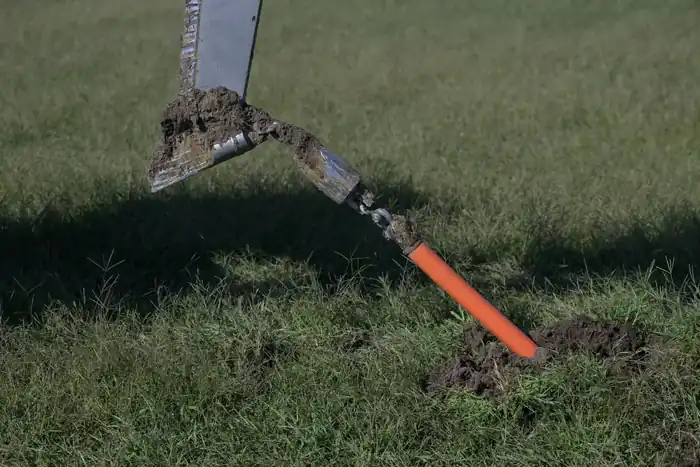
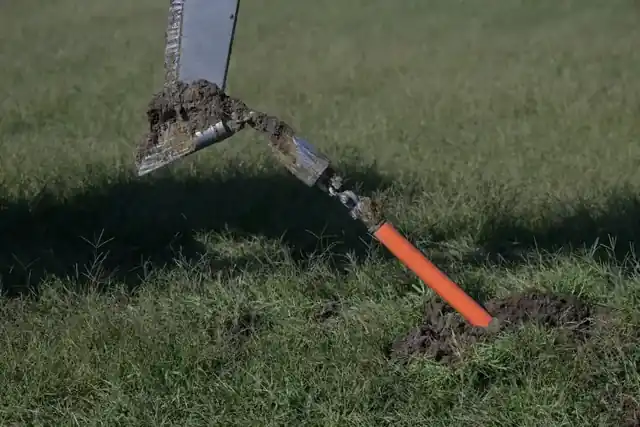
Stop phones from downloading the desktop photo.
A high-resolution phone was still choosing the larger image. Mobile now gets only the small photo, a smaller logo, and Latin fonts.

Changed region(s): [[0.6562, 0.6698, 0.6875, 0.7002], [0.625, 0.6089, 0.6562, 0.6393]]

diff --git a/src/styles/global.css b/src/styles/global.css
@@ -1,7 +1,7 @@
 @import "tailwindcss";
 @import "tw-animate-css";
-@import "@fontsource-variable/sora";
-@import "@fontsource-variable/manrope";
+@font-face{font-family:"Sora Variable";font-style:normal;font-display:swap;font-weight:100 800;src:url("../../node_modules/@fontsource-variable/sora/files/sora-latin-wght-normal.woff2") format("woff2");unicode-range:U+0000-00FF,U+0131,U+0152-0153,U+02BB-02BC,U+02C6,U+02DA,U+02DC,U+0304,U+0308,U+0329,U+2000-206F,U+20AC,U+2122,U+2191,U+2193,U+2212,U+2215,U+FEFF,U+FFFD}
+@font-face{font-family:"Manrope Variable";font-style:normal;font-display:swap;font-weight:200 800;src:url("../../node_modules/@fontsource-variable/manrope/files/manrope-latin-wght-normal.woff2") format("woff2");unicode-range:U+0000-00FF,U+0131,U+0152-0153,U+02BB-02BC,U+02C6,U+02DA,U+02DC,U+0304,U+0308,U+0329,U+2000-206F,U+20AC,U+2122,U+2191,U+2193,U+2212,U+2215,U+FEFF,U+FFFD}
 @theme inline {
   --font-sans:"Manrope Variable",sans-serif; --font-heading:"Sora Variable",sans-serif;
   --color-background:#fff; --color-foreground:#10283e; --color-primary:#005eae; --color-primary-foreground:#fff;
@@ -12,7 +12,7 @@
 :root{--ink:#10283e;--blue:#005eae;--muted:#506477;--line:#d5dfe6;--pale:#eff4f7;--header:88px}
 *{box-sizing:border-box}html{scroll-behavior:smooth;scroll-padding-top:110px}body{margin:0;background:#fff;color:var(--ink);font-family:"Manrope Variable",sans-serif;-webkit-font-smoothing:antialiased}h1,h2,h3,p,figure{margin:0}h1,h2,h3{font-family:"Sora Variable",sans-serif;font-weight:500;letter-spacing:-.045em}h2{font-size:clamp(32px,3.6vw,52px);line-height:1.16}p{line-height:1.75}a{color:inherit;text-decoration:none}img{max-width:100%;display:block}button,input,textarea,select{font:inherit}button,summary{cursor:pointer}button,a{-webkit-tap-highlight-color:transparent}a:focus-visible,button:focus-visible,summary:focus-visible{outline:3px solid #008cff;outline-offset:5px}::selection{background:#b7dbff}.wrap{width:min(1280px,calc(100% - 96px));margin-inline:auto}.section{padding-block:96px}.eyebrow{font-size:11px;font-weight:750;letter-spacing:.15em;color:var(--blue);margin-bottom:24px}.small-note{font-size:12px;color:var(--muted);line-height:1.7}.action{display:inline-flex;align-items:center;justify-content:center;gap:26px;padding:16px 22px;min-height:50px;background:var(--blue);color:#fff;font-size:13px;font-weight:700;border-radius:2px;border:1px solid transparent;transition:background .2s}.action:hover{background:#004c8d}.action svg,.text-link svg{width:18px;height:18px;transition:transform .2s}.action:hover svg,.text-link:hover svg{transform:translateX(4px)}.action-white{background:#fff;color:var(--ink);border-radius:999px}.action-white:hover{background:#dfefff}.text-link{display:inline-flex;align-items:center;gap:24px;font-size:13px;font-weight:750;color:var(--blue);border-bottom:1px solid var(--blue);padding-block:14px;margin-top:20px;min-height:44px}.skip{position:fixed;top:8px;left:12px;z-index:100;background:#fff;padding:12px;transform:translateY(-150%)}.skip:focus{transform:none}
 .scroll-progress{position:fixed;top:0;left:0;right:0;height:3px;z-index:70;pointer-events:none}.scroll-progress span{display:block;height:100%;width:0;background:#008cff}.header{position:fixed;top:14px;left:0;right:0;z-index:50;background:transparent;border:0}.nav-float{width:min(1180px,calc(100% - 28px));margin-inline:auto;height:68px;display:flex;align-items:center;justify-content:space-between;gap:18px;padding:0 14px 0 18px;background:rgba(255,255,255,.78);border:1px solid rgba(255,255,255,.72);border-radius:999px;box-shadow:0 12px 40px rgba(7,25,52,.14);backdrop-filter:blur(18px) saturate(1.35)}.header.is-scrolled .nav-float{background:rgba(255,255,255,.92)}.brand{display:flex;align-items:center}.brand img{width:132px;height:auto}.desktop-nav{display:flex;align-items:center;gap:22px;font-size:13px;font-weight:650}.desktop-nav>a:not(.action){position:relative;padding-block:8px;color:#24384c}.desktop-nav>a:not(.action):hover,.desktop-nav>a[aria-current]{color:var(--blue)}.desktop-nav>a[aria-current]:after{content:"";position:absolute;left:0;right:0;bottom:2px;height:2px;background:var(--blue)}.desktop-nav .action{min-height:42px;border-radius:999px;padding-inline:18px}.mobile-menu{display:none;position:relative}.mobile-nav-trigger{min-height:44px;padding:10px 14px;background:white;border:1px solid var(--line);color:var(--ink);border-radius:999px;list-style:none}.mobile-menu summary::-webkit-details-marker{display:none}.mobile-menu nav{position:absolute;top:78px;right:14px;z-index:60;display:grid;min-width:220px;padding:8px;background:white;border:1px solid var(--line);border-radius:16px;box-shadow:0 16px 40px rgba(7,25,52,.16)}.mobile-menu nav a{padding:12px 14px;font-size:15px;font-weight:650}
-.field-hero{position:relative;isolation:isolate;min-height:640px;height:100svh;max-height:920px;color:white;display:flex;align-items:center;overflow:hidden;background:#17364d}.hero-photo,.hero-overlay{position:absolute;inset:0;width:100%;height:100%;z-index:-1}.hero-photo{object-fit:cover;object-position:center 53%;animation:photo-in 1.3s ease-out both}.hero-overlay{background:linear-gradient(90deg,rgba(5,22,36,.83),rgba(5,22,36,.46) 55%,rgba(5,22,36,.08)),linear-gradient(0deg,rgba(5,22,36,.45),transparent 30%)}.hero-content{padding-block:70px 100px;animation:copy-in .7s ease-out both}.hero-content .eyebrow{color:#c5e5ff;font-size:10px;letter-spacing:.18em}.hero-content h1{font-size:clamp(52px,6.6vw,96px);line-height:1.06;letter-spacing:-.06em;max-width:960px}.hero-description{font-size:17px;max-width:410px;margin-block:28px 32px;color:#e1ebf3}.hero-bottom{position:absolute;bottom:28px;left:0;right:0;display:flex;justify-content:space-between;gap:24px;align-items:center;font-size:10px;color:#ecf4fa}.hero-bottom>a{padding-block:10px}.hero-bottom>a:last-child{font-size:12px;font-weight:650}.hero-bottom span{margin-left:24px;font-size:22px}
+.field-hero{position:relative;isolation:isolate;min-height:640px;height:100svh;max-height:920px;color:white;display:flex;align-items:center;overflow:hidden;background:#17364d}.hero-photo,.hero-overlay{position:absolute;inset:0;width:100%;height:100%;z-index:-1}.hero-photo img,.hero-photo{object-fit:cover;object-position:center 53%;width:100%;height:100%;animation:photo-in 1.3s ease-out both}.hero-overlay{background:linear-gradient(90deg,rgba(5,22,36,.83),rgba(5,22,36,.46) 55%,rgba(5,22,36,.08)),linear-gradient(0deg,rgba(5,22,36,.45),transparent 30%)}.hero-content{padding-block:70px 100px;animation:copy-in .7s ease-out both}.hero-content .eyebrow{color:#c5e5ff;font-size:10px;letter-spacing:.18em}.hero-content h1{font-size:clamp(52px,6.6vw,96px);line-height:1.06;letter-spacing:-.06em;max-width:960px}.hero-description{font-size:17px;max-width:410px;margin-block:28px 32px;color:#e1ebf3}.hero-bottom{position:absolute;bottom:28px;left:0;right:0;display:flex;justify-content:space-between;gap:24px;align-items:center;font-size:10px;color:#ecf4fa}.hero-bottom>a{padding-block:10px}.hero-bottom>a:last-child{font-size:12px;font-weight:650}.hero-bottom span{margin-left:24px;font-size:22px}
 .introduction{display:grid;grid-template-columns:1.1fr 1fr;gap:90px}.introduction h2{color:var(--blue)}.intro-copy p{font-size:16px;color:var(--muted)}.intro-copy p:first-child{font-size:20px;color:var(--ink);line-height:1.6;margin-bottom:20px}
 .people-banner{display:grid;grid-template-columns:1fr 1fr;background:var(--blue);color:white}.people-banner figure{position:relative;overflow:hidden;min-height:620px}.people-banner img{height:100%;width:100%;object-fit:cover;object-position:62% center;transition:transform .8s}.people-banner figure:hover img{transform:scale(1.035)}.people-banner figcaption{position:absolute;bottom:24px;left:24px;font-size:10px;background:#10283ee6;padding:8px 12px}.people-copy{padding:64px clamp(32px,5vw,80px)}.people-copy .eyebrow{color:#b4ddff}.people-copy>p:not(.eyebrow){color:#e0edf7;margin-top:24px;font-size:15px}.principles{display:grid;grid-template-columns:1fr 1fr;gap:30px;margin-top:40px}.principles>div{border-top:1px solid #ffffff55;padding-top:18px}.principles h3{font-size:16px;letter-spacing:-.025em;margin-bottom:9px}.principles p{font-size:12px;line-height:1.7;color:#e0edf7}
 .capabilities{display:grid;grid-template-columns:.9fr 1.1fr;gap:90px;align-items:start}.capability-intro{position:sticky;top:140px}.capability-intro>p:not(.eyebrow){color:var(--muted);max-width:300px;margin-top:26px}.capability{display:grid;grid-template-columns:24px 1fr 18px;gap:18px;padding:30px 0;border-top:1px solid var(--line)}.capability-number{font-size:11px;color:var(--blue);padding-top:6px}.capability h3{font-size:25px;line-height:1.25}.capability p{font-size:14px;color:var(--muted);margin-top:14px}.capability ul{list-style:none;padding:0;margin:18px 0 0;font-size:12px;line-height:1.8;color:var(--muted)}.capability li:before{content:'—';margin-right:10px;color:var(--blue)}.capability>svg{width:18px;height:18px;color:var(--blue);margin-top:5px}.capability-list>.small-note{padding-top:20px;border-top:1px solid var(--line)}
@@ -23,6 +23,6 @@
 .footer{background:#071422;color:white;padding-top:88px}.footer-close{display:grid;gap:28px;padding-bottom:64px}.footer-kicker{font-size:12px;letter-spacing:.16em;font-weight:750;color:#9fd0ff}.footer-display{font-family:"Sora Variable",sans-serif;font-size:clamp(52px,8vw,108px);line-height:.96;letter-spacing:-.06em;max-width:920px}.footer-close .action{width:fit-content}.footer-meta{border-top:1px solid #ffffff22;padding-block:22px 28px;display:flex;justify-content:space-between;gap:24px;align-items:center;font-size:12px;color:#c4d4df}.footer-nav{display:flex;flex-wrap:wrap;gap:8px 22px}.footer-nav a:hover{color:white}.rise{opacity:0;transform:translateY(28px);transition:opacity .7s ease,transform .7s ease}.rise.is-in{opacity:1;transform:none}
 @keyframes copy-in{from{opacity:0;transform:translateY(18px)}to{opacity:1;transform:none}}@keyframes photo-in{from{transform:scale(1.035)}to{transform:scale(1)}}
 @media(max-width:1100px){.brand-descriptor{display:none}.wrap{width:calc(100% - 64px)}.desktop-nav{gap:20px}.introduction,.capabilities,.safety-layout,.contact-layout{gap:45px}.people-copy{padding:48px 32px}.people-copy h2{font-size:35px}.principles{gap:24px}}
-@media(max-width:800px){:root{--header:76px}.header{top:10px}.nav-float{height:62px;padding-inline:12px}.desktop-nav{display:none}.mobile-menu{display:block}.brand img{width:118px}.section{padding-block:64px}.field-hero{min-height:550px;max-height:760px}.hero-content h1{font-size:clamp(46px,7.5vw,65px)}.introduction,.capabilities,.safety-layout,.contact-layout{grid-template-columns:1fr;gap:36px}.capability-intro{position:static}.people-banner{grid-template-columns:1fr}.people-banner figure{height:380px;min-height:0}.people-copy{padding:48px 32px}.people-copy h2{font-size:40px}.market-layout{grid-template-columns:1fr;gap:35px}.market-layout figure{max-width:620px}.network-experience{align-items:start;flex-direction:column;gap:22px}.footer-display{font-size:48px}.footer-meta{align-items:start;flex-direction:column}}
+@media(max-width:800px){:root{--header:76px}.header{top:10px}.nav-float{backdrop-filter:none;background:#fff}.nav-float{height:62px;padding-inline:12px}.desktop-nav{display:none}.mobile-menu{display:block}.brand img{width:118px}.section{padding-block:64px}.field-hero{min-height:550px;max-height:760px}.hero-content h1{font-size:clamp(46px,7.5vw,65px)}.introduction,.capabilities,.safety-layout,.contact-layout{grid-template-columns:1fr;gap:36px}.capability-intro{position:static}.people-banner{grid-template-columns:1fr}.people-banner figure{height:380px;min-height:0}.people-copy{padding:48px 32px}.people-copy h2{font-size:40px}.market-layout{grid-template-columns:1fr;gap:35px}.market-layout figure{max-width:620px}.network-experience{align-items:start;flex-direction:column;gap:22px}.footer-display{font-size:48px}.footer-meta{align-items:start;flex-direction:column}}
 @media(max-width:480px){.wrap{width:calc(100% - 40px)}.section{padding-block:56px}.hero-content{padding-block:50px 110px}.field-hero{min-height:570px;height:100svh;max-height:760px}.hero-photo{object-position:58% center}.hero-content h1{font-size:clamp(37px,10vw,48px);letter-spacing:-.055em}.hero-content .eyebrow{font-size:9px;max-width:260px;line-height:1.8;letter-spacing:.12em}.hero-description{font-size:15px;max-width:270px;margin-block:22px 28px}.hero-bottom{bottom:16px;align-items:start;flex-direction:column;gap:0;font-size:9px}.hero-bottom>a:last-child{font-size:11px}.hero-bottom span{font-size:16px}.introduction h2,h2{font-size:32px}.intro-copy p:first-child{font-size:18px}.intro-copy p{font-size:14px}.people-copy{padding:40px 20px}.people-copy h2{font-size:34px}.people-banner figure{height:300px}.principles{gap:24px 18px}.principles h3{font-size:14px}.principles p{font-size:11px}.capability{gap:12px;grid-template-columns:20px 1fr 16px}.capability h3{font-size:22px}.network-experience>div{gap:24px;font-size:19px}.contact-form{grid-template-columns:1fr;gap:18px}.footer{padding-top:64px}.footer-display{font-size:40px}.footer-meta{flex-direction:column;align-items:start;gap:14px}.market-list{font-size:12px}.form-preview dl{grid-template-columns:1fr}.brand img{width:125px}}
 @media(prefers-reduced-motion:reduce){html{scroll-behavior:auto}*,*::before,*::after{animation:none!important;transition:none!important}.capability-intro{position:static}.rise{opacity:1;transform:none}}
